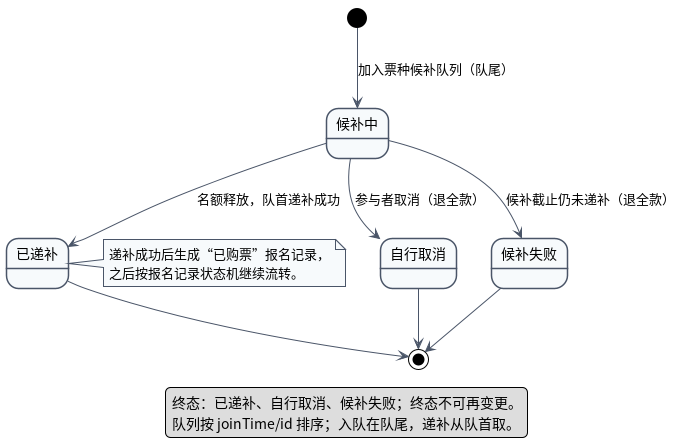
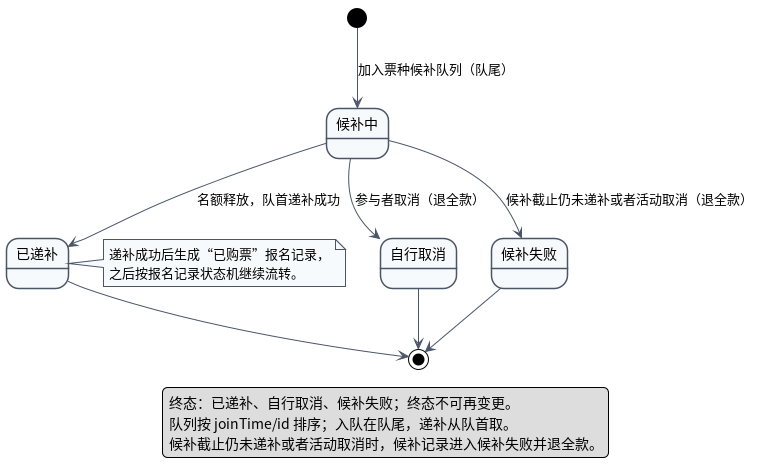
lab3: 同步实验二修订版 UML 并核对实现
- 同步 5 张 UML（活动图、候补状态图、检票用例图、类图、治理类图）及设计说明
- 核对：失败审计、重复候补、活动取消候补失败、分配检票、角色派生、
  候补快照字段、ACTIVITY_CANCELLED 通知均已实现
- 记录 Activity.waitlistDeadline 的创建输入待确认
- 更新实现基线第 8 节、实现映射说明与需求追踪说明

diff --git a/lab3/报告素材/需求实现追踪表.md b/lab3/报告素材/需求实现追踪表.md
@@ -24,7 +24,7 @@
 | REQ-016 | 缺席处理 | 已实现 | `scheduler.py` | `test_session_end_marks_no_show...` | 场次结束未检票→未检票终态；不释放名额 |
 | REQ-017 | 凭证不符处理 | 已实现 | `checkin.py` | `test_abnormal_does_not_change_registration` | 只标记请求异常，不改报名状态；写审计 |
 | REQ-018 | 管理员处置与举报 | 已实现 | `admin.py`、`reports.py`、`refunds.py` | `test_ban_organizer_cancels_activities`、手工举报 | 举报、取消活动、封禁；封禁组织者取消其活动 |
-| REQ-019 | 候补入队与 FIFO | 已实现 | `waitlist.py` | `test_fifo_and_promotion` | 每票种一条队列；按入队时间排序 |
+| REQ-019 | 候补入队与 FIFO | 已实现 | `waitlist.py` | `test_fifo_and_promotion` | 每票种一条队列；按入队时间排序；候补截止为活动级 `waitlist_deadline`（创建向导默认取售票截止） |
 | REQ-020 | 自动递补 | 已实现 | `promotion.py`、`refunds.py` | `test_fifo_and_promotion` | 退票写 Outbox；递补生成报名记录 |
 | REQ-021 | 活动状态机 | 已实现 | `activities.py`、`scheduler.py` | `test_activity_status_moves_with_time`、`test_cancel...` | 草稿→待审→公开→进行中→结束；取消终态 |
 | REQ-022 | 报名记录状态机 | 已实现 | `models.py`、`scheduler.py`、`refunds.py` | `test_session_end...`、`test_cancel_approval...` | 六种状态；终态不可再变 |
@@ -42,7 +42,7 @@
 | REQ-034 | 报名截止判定 | 已实现 | `registrations.py` | `test_register_at_sale_end_is_allowed`、`...after_sale_end_fails` | 以服务器时间为准；等于截止时刻允许 |
 | REQ-035 | 超过退票截止不可取消 | 已实现 | `refunds.py` | `test_refund_after_deadline_fails` | 截止后拒绝，状态不变 |
 | REQ-036 | 重复检票处理 | 已实现 | `checkin.py` | `test_checkin_pass_and_duplicate` | 第一次有效；再次提示已检票，不新增留痕 |
-| REQ-037 | 活动取消全额退款 | 已实现 | `refunds.py` | `test_cancel_approval_refunds...` | 已购票/已检票→活动取消并退款；候补失败退款 |
+| REQ-037 | 活动取消全额退款 | 已实现 | `refunds.py` | `test_cancel_approval_refunds...` | 已购票/已检票→活动取消并退款；候补失败退款；通知参与者与组织者 |
 | REQ-038 | 人数不足不自动取消 | 已实现 | `scheduler.py` | 手工/代码审查 | 系统只按时间推进，不因人数不足取消 |
 | REQ-039 | 审计留痕范围 | 已实现 | `audit.py`、各服务 | `test_capacity_full_and_failure_audit`、手工审计 | 活动/报名/检票/账号/举报关键操作；报名失败也留痕 |
 | REQ-040 | 留痕内容 | 已实现 | `schema.sql`、`audit.py` | 手工审计 | 操作人/时间/对象/操作/前后状态/说明 |
@@ -52,6 +52,6 @@
 | REQ-044 | 性能验收口径 | 部分实现 | — | — | 同上；报告中如实说明 |
 | REQ-045 | 口令与手机号可见性 | 已实现 | `security.py`、`permissions.py` | `test_password_is_not_plaintext`、`test_organizer_roster_masks_phone` | PBKDF2 加盐；手机号脱敏 |
 | REQ-046 | 报名持久化 | 已实现 | `db.py`、`registrations.py` | 手工重启检查 | SQLite 事务提交后持久化；未做崩溃注入 |
-| REQ-047 | 账号注册与登录 | 已实现 | `auth.py` | `test_register_and_login`、`test_duplicate_phone...` | 参与者/组织者自助；管理员/检票员预创建；无找回密码 |
+| REQ-047 | 账号注册与登录 | 已实现 | `auth.py`、`admin.py` | `test_register_and_login`、`test_duplicate_phone...` | 参与者/组织者自助；管理员/检票员预创建；管理员可分配检票员到活动；无找回密码 |
 | REQ-048 | 管理员强制退票 | 已实现 | `refunds.py` | `test_force_refund...` | 退款、通知、留痕、释放名额 |
 | REQ-049 | 候补记录字段 | 已实现 | `schema.sql`、`models.py` | 手工核对 | 账号/场次/票种/入队时间/支付标记/状态 |

diff --git a/lab3/UML/实现映射说明.md b/lab3/UML/实现映射说明.md
@@ -4,25 +4,30 @@
 `../code/ticketing/`。本文件说明“哪张图指导了哪部分代码”，以及实现中
 与设计不一致的地方；更完整的模块/类/数据表映射见 `../00_实现基线.md`。
 
+> 2026-11-04 已同步实验二修订版：活动图（失败审计、重复候补判断）、
+> 状态图_候补记录（活动取消→候补失败）、用例图_检票与管理员（分配检票活动）、
+> 类图（`/role`、`waitlistDeadline`、候补快照字段）、类图_治理
+> （`ACTIVITY_CANCELLED` 通知）及 `UML设计说明.md`。
+
 ## 1. 结构性图
 
 | UML 图 | 指导的实现 | 关键对应 |
 |---|---|---|
 | `UML组件图.puml` | 包分层与依赖方向 | `cli` → 服务 → `db`；`promotion` 解耦 D3/D4；`queries` 只读 |
 | `UML组件图_领域依赖.puml` | 服务之间的调用 | `RegistrationService` → `TicketService`/`WaitlistService`；`RefundService` → Outbox → `PromotionService` |
-| `UML类图.puml` | `ticketing/domain/models.py` 与各领域服务 | Account/Activity/Session/TicketType/Registration/WaitlistRecord/CheckRequest/ReviewApplication |
-| `UML类图_治理.puml` | `ticketing/domain/reports.py` + `ticketing/common/notifications.py`/`audit.py` | Report/Notification/AuditLog |
+| `UML类图.puml` | `ticketing/domain/models.py` 与各领域服务 | Account（含派生 `/role`）、Activity（含 `waitlistDeadline`）、Session、TicketType、Registration、WaitlistRecord（含 `activityId`/`sessionId` 快照）、CheckRequest、ReviewApplication |
+| `UML类图_治理.puml` | `ticketing/domain/reports.py` + `ticketing/common/notifications.py`/`audit.py` | Report/Notification（含 `ACTIVITY_CANCELLED`）/AuditLog |
 
 ## 2. 行为性与交互性图
 
 | UML 图 | 指导的实现 | 代码位置 |
 |---|---|---|
-| 用例图（两张） | 四角色菜单与权限入口 | `ticketing/presentation/cli.py` 的四个菜单；`ticketing/common/permissions.py` |
-| 活动图_报名购票 | 报名流程：权限 → 幂等 → 截止 → 扣名额 → 报名/候补 → 审计 | `ticketing/domain/registrations.py`、`ticketing/domain/waitlist.py` |
+| 用例图（两张） | 四角色菜单与权限入口；管理员分配检票活动 | `ticketing/presentation/cli.py` 的四个菜单；`ticketing/common/permissions.py`；`AdminService.assign_inspector` |
+| 活动图_报名购票 | 报名流程：权限 → 幂等 → 截止 → 扣名额 → 报名/候补 → 审计；失败分支独立事务留痕；重复候补拦截 | `ticketing/domain/registrations.py`、`ticketing/domain/waitlist.py` |
 | 时序图_报名购票 | 事务边界与调用顺序 | `RegistrationService._register_impl`、`ticketing/infrastructure/db.py` |
 | 状态图_活动 | 活动状态推进与取消 | `ticketing/domain/activities.py`、`ticketing/application/scheduler.py`、`ticketing/domain/refunds.py` |
 | 状态图_报名记录 | 报名终态与名额释放 | `ticketing/application/scheduler.py`、`ticketing/domain/refunds.py` |
-| 状态图_候补记录 | 候补三终态与退款 | `ticketing/domain/waitlist.py`、`ticketing/application/promotion.py` |
+| 状态图_候补记录 | 候补三终态与退款；活动取消时候补转失败 | `ticketing/domain/waitlist.py`、`ticketing/application/promotion.py`、`ticketing/domain/refunds.py` |
 
 ## 3. 实现中的调整
 
@@ -37,3 +42,6 @@
    没有独立后台线程，但 D3/D4 的依赖方向不变。
 6. **名称按表面信息处理**：需求只明确“描述/图片/标签”可直接改；实现把名称
    也归入表面信息。报告中应把这一点作为设计假设说明。
+7. **候补截止的创建输入**：`activity.waitlist_deadline` 字段、查询与候补截止
+   判断均已实现；但创建活动向导目前把候补截止默认取为售票截止（`sale_end`），
+   没有独立的“候补截止”输入项。这是设计修订版与实现之间待确认的一处差异。

diff --git a/lab3/00_实现基线.md b/lab3/00_实现基线.md
@@ -102,3 +102,20 @@ python3 main.py
 make test     # 38 个测试
 make lint     # pylint 10.00/10
 ```
+
+## 8. 实验二 UML 修订同步（2026-11-04）
+
+实验二对 5 张 UML 与 `UML设计说明.md` 做了补充，实验三已同步到 `UML/` 并逐项核对实现：
+
+| 设计补充 | 实验三实现 | 结论 |
+|---|---|---|
+| 报名失败（未开始/已截止/满员/重复候补）用独立事务写审计 | `RegistrationService.register` 捕获 `AppError` 后 `record_standalone`；`WaitlistService.enqueue` 同理 | 已实现 |
+| 候补要求“允许候补、未过截止且没有有效候补” | `WaitlistService._enqueue_impl` 检查已有报名与 `active_for_account_session` | 已实现 |
+| 候补记录在活动取消时转为候补失败并退全款 | `RefundService.cancel_activity_conn` 对 `WAITING` 记录调用 `mark_failed_conn` | 已实现 |
+| 管理员“分配检票活动”用例 | `AdminService.assign_inspector` + `activity_inspector` 表 + 管理员菜单 | 已实现 |
+| `Account./role` 派生属性 | `models.Account.role`；数据库 `account.role` 单表判别 | 已实现（实现采用单表 + role 列） |
+| `Activity.waitlistDeadline` 活动级候补截止 | `activity.waitlist_deadline` 字段、`WaitlistService` 截止判断 | 字段与判断已实现；**创建向导默认取 `sale_end`，尚无独立输入** |
+| `WaitlistRecord.activityId/sessionId` 快照 | `waitlist_record.activity_id/session_id`，入队时写入 | 已实现 |
+| `NotificationType.ACTIVITY_CANCELLED` | `models.NotificationType`、`notification` 表 CHECK、活动取消通知 | 已实现 |
+
+唯一待确认差异：候补截止的创建输入（见 `UML/实现映射说明.md` 第 3 节第 7 条）。
